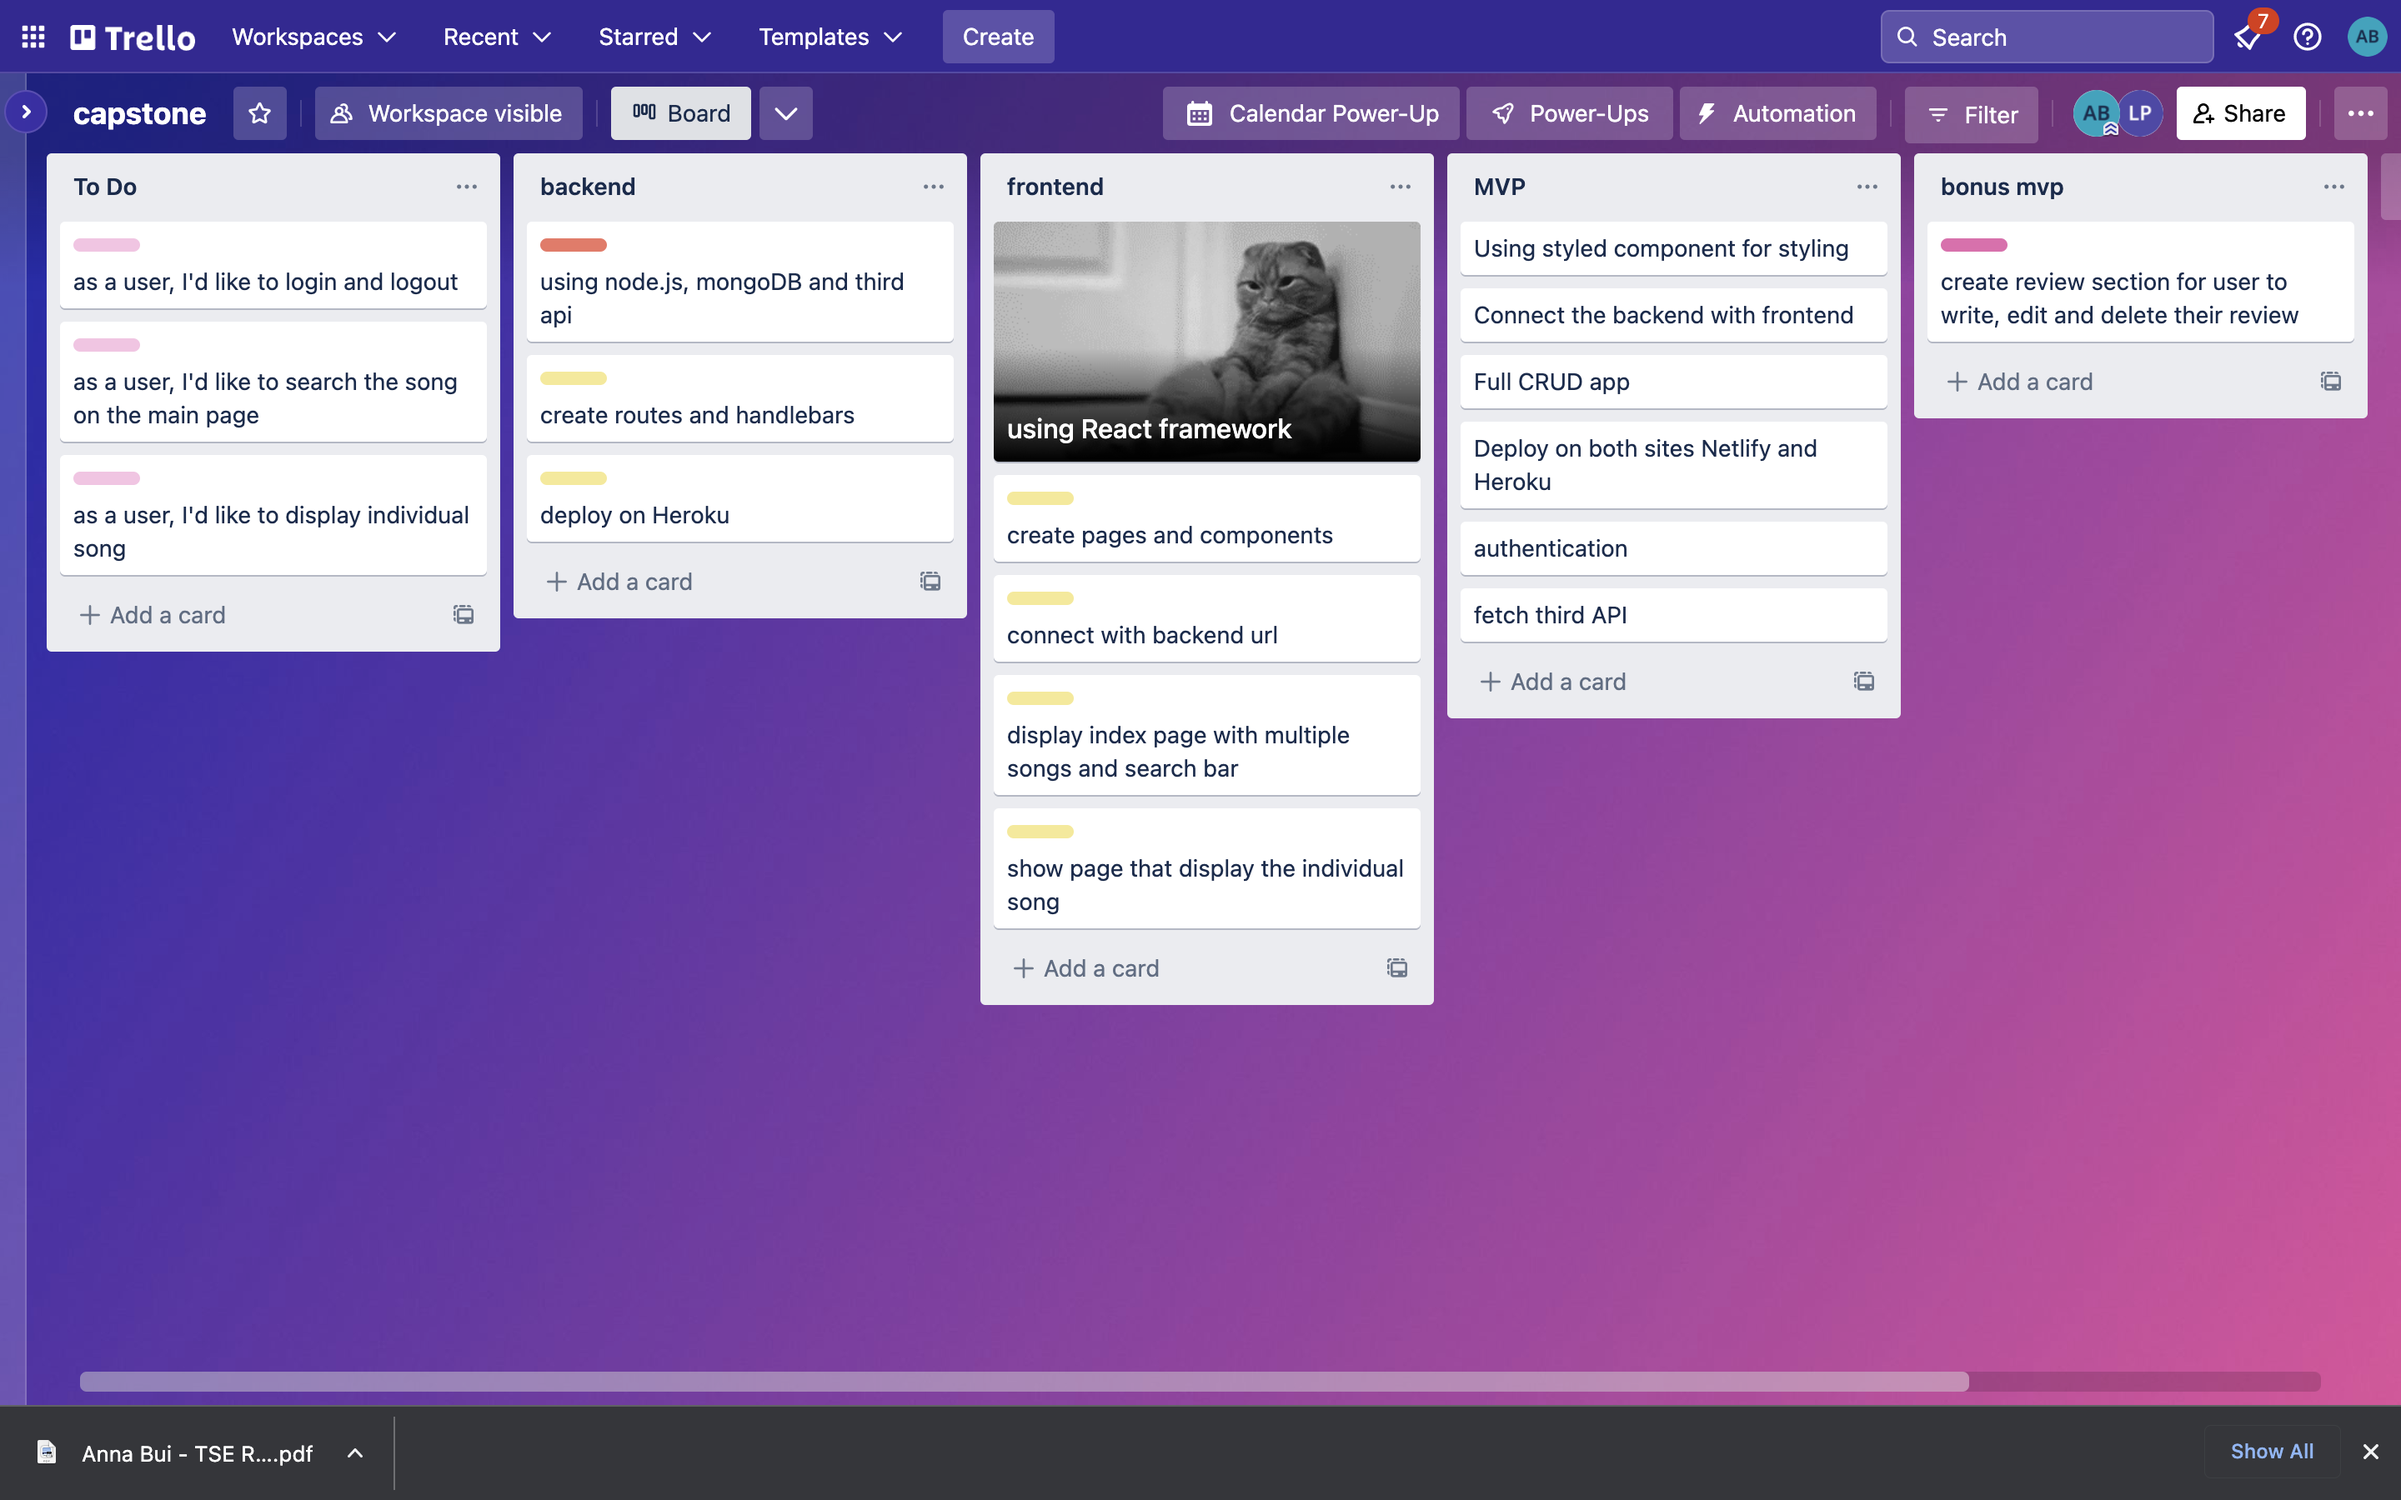
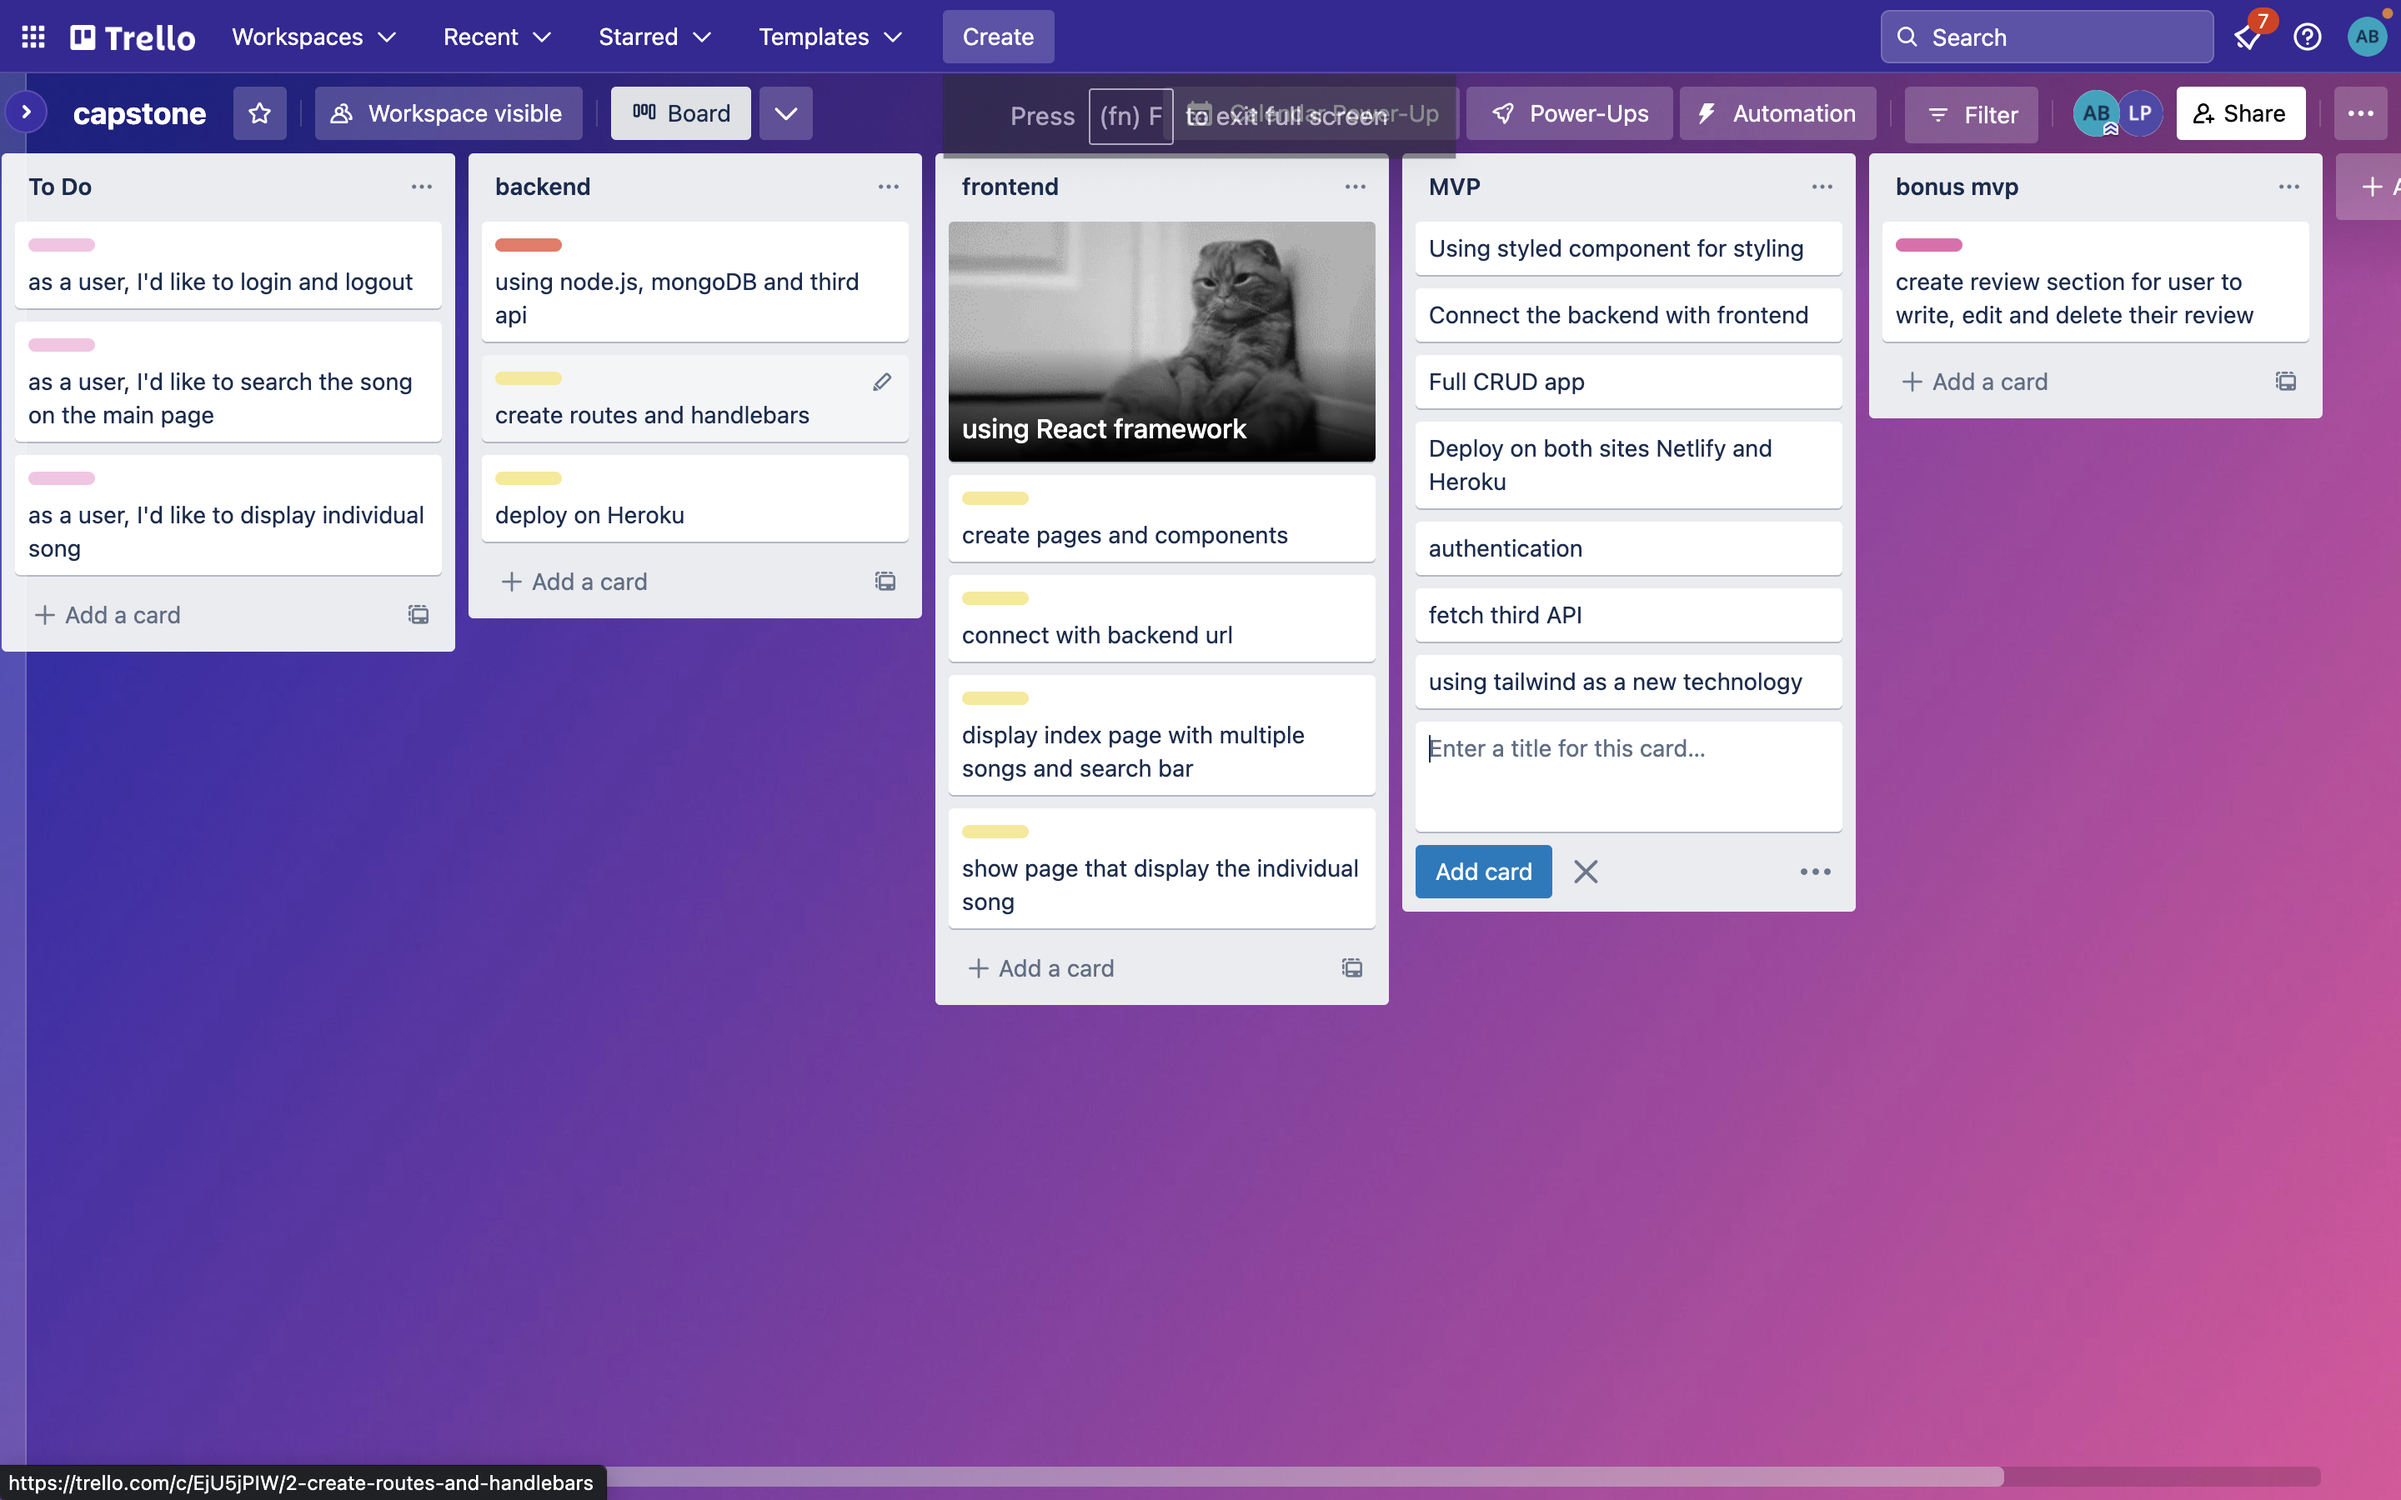
update trello and fix text overflow

Changed region(s): [[0.0, 0.0311, 1.0, 0.6844], [0.0, 0.9022, 1.0, 1.0]]

diff --git a/src/components/MusicItem.js b/src/components/MusicItem.js
@@ -1,7 +1,7 @@
 import { Link } from "react-router-dom"
 import { useAppContext } from "../context"
 
-const MusicCard = ({musicItem}) => {
+const MusicCard = ({ musicItem }) => {
   const { user } = useAppContext()
   return (
     <Link
@@ -9,7 +9,7 @@ const MusicCard = ({musicItem}) => {
       to={user ? `/item/${musicItem.id}` : ''}
     >
       <img className="mb-2 rounded-2xl" src={musicItem.thumb} alt={musicItem.title} />
-      <h5 className="m-0">{musicItem.title}</h5>
+      <h5 className="m-0 truncate">{musicItem.title}</h5>
     </Link>
   )
 }

diff --git a/README.md b/README.md
@@ -3,8 +3,8 @@
 this is an app to provide user music list/songs in several genres
 
 ## Repo
-#### Frontend: [https://github.com/anbee123/myJAM-frontend-.git](https://github.com/anbee123/myJAM-frontend-.git)
-#### Backend: [https://github.com/anbee123/myJAM-backend.git](https://github.com/anbee123/myJAM-backend.git)
+#### Frontend: [https://github.com/softbesta/MyJAM_Front.git](https://github.com/softbesta/MyJAM_Front.git)
+#### Backend: [https://github.com/softbesta/MyJAM_Back.git](https://github.com/softbesta/MyJAM_Back.git)
 
 
 ### Trello
@@ -27,12 +27,12 @@ this is an app to provide user music list/songs in several genres
 
 * Express
 * React
-* Styled Component
+* Tailwind 
 * Rest API
 * MongoDB/Mongoose
 * Node
-* JWT/Full CRUD
+* JWT
 
 ## Live link
 
-[https://welcometomyjam.netlify.app/](https://welcometomyjam.netlify.app/)
+[https://myjamworld.netlify.app/](https://myjamworld.netlify.app/)
